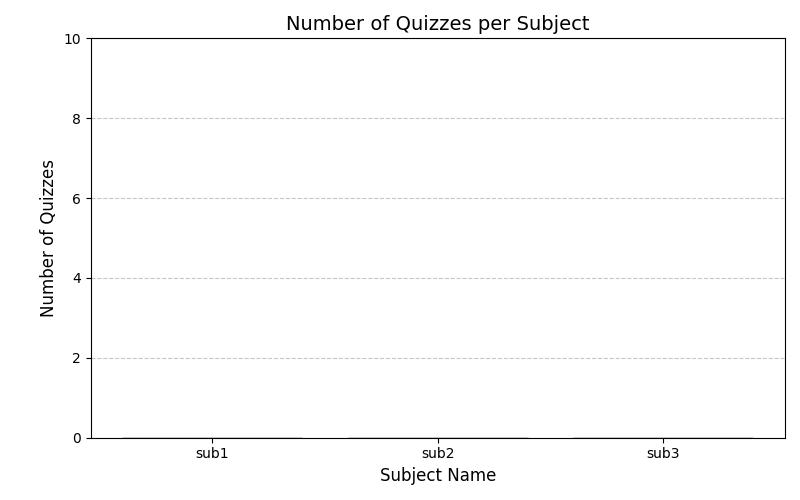
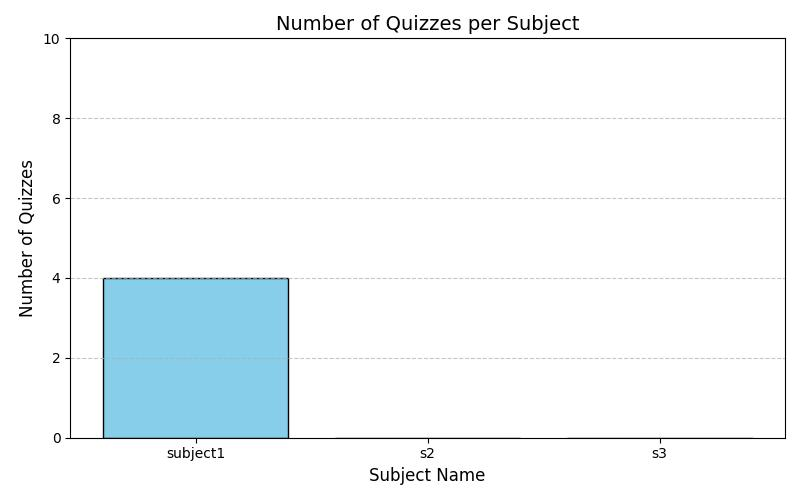
updated

diff --git a/templates/quiz_score.html b/templates/quiz_score.html
@@ -12,8 +12,8 @@
                             <th class="text-center">Name</th>
                             <th class="text-center">Subject</th>
                             <th class="text-center">No. of Questions</th>
-                            <th class="text-center">Date</th>
-                            <th class="text-center">Duration</th>
+                            <th class="text-center">Time Duration</th>
+                            <th class="text-center">Attempt Date</th>
                             <th class="text-center">Time Taken</th>
                             <th class="text-center">Score</th>
                         </tr>
@@ -24,8 +24,8 @@
                             <td class="text-center">{{ row.quiz_name }}</td>
                             <td class="text-center">{{ row.subject_name }}</td>
                             <td class="text-center">{{ row.no_of_questions }}</td>
-                            <td class="text-center">{{ row.quiz_date }}</td>
                             <td class="text-center">{{ row.time_duration }}</td>
+                            <td class="text-center">{{ row.attempt_date }}</td>
                             <td class="text-center">{{ row.attempt_time }}</td>
                             <td class="text-center">{{ row.user_score }}</td>
                         </tr>

diff --git a/templates/subject.html b/templates/subject.html
@@ -81,7 +81,7 @@
                                 <div class="d-flex align-items-center">
                                     <button type="button"
                                         class="btn btn-outline-primary btn-sm me-2 edit_button"
-                                        data-toggle="modal" data-target="#editChapter{{ chapter.id }}">
+                                        data-toggle="modal" data-target="#editChapter{{ subject.id }}{{ chapter.id }}">
                                         Edit
                                     </button>
                                     <div class="modal fade" id="editChapter{{ subject.id }}{{ chapter.id }}"

diff --git a/templates/user_chart.html b/templates/user_chart.html
@@ -20,10 +20,6 @@
             <li class="nav-item">
                 <a class="nav-link" href="/{{user.username}}/score">Scores</a>
             </li>
-            <li class="nav-item">
-                <input class="form-control" type="search" placeholder="Search" aria-label="Search" name="q"
-                    hx-get="{{ url_for('user_quiz', username=user.username) }}" hx-trigger="keyup changed delay:500ms" hx-target="#search-results">
-            </li>
             <li>
                 <form action="/logout" class="d-inline">
                     <button type="submit" class="btn btn-outline-danger">Logout</button>

diff --git a/templates/admin_chart.html b/templates/admin_chart.html
@@ -23,10 +23,6 @@
             <li class="nav-item">
                 <a class="nav-link" href="/admin/quiz">Quiz</a>
             </li>
-            <li class="nav-item">
-                <input class="form-control" type="search" placeholder="Search" aria-label="Search" name="q"
-                    hx-get="{{url_for('admin_search', type='subject')}}" hx-trigger="keyup changed delay:500ms" hx-target="#search-results">
-            </li>
             <li>
                 <form action="/logout" class="d-inline">
                     <button type="submit" class="btn btn-outline-danger">Logout</button>

diff --git a/app.py b/app.py
@@ -9,6 +9,7 @@ app.config["SQLALCHEMY_DATABASE_URI"]="sqlite:///database.sqlite3"
 app.secret_key = '0987654321'
 db = SQLAlchemy(app)
 
+#######################################################################################3
 
 # Model work
 class Admin(db.Model):
@@ -63,7 +64,6 @@ class Quiz(db.Model):
     quiz_date = db.Column(db.Date, nullable=False)
     time_duration = db.Column(db.Time, nullable=False)
     questions = db.relationship('QuizwiseQuestion', backref='quiz', lazy=True)
-    scores = db.relationship('Score', backref='quiz', lazy=True)
 
 class QuizwiseQuestion(db.Model):
     __tablename__ = 'quizwisequestion'
@@ -73,8 +73,12 @@ class QuizwiseQuestion(db.Model):
 class Score(db.Model):
     __tablename__ = 'score'
     id = db.Column(db.Integer, primary_key=True, autoincrement=True)
-    quiz_id = db.Column(db.Integer, db.ForeignKey('quiz.id'), nullable=False)
     user_id = db.Column(db.Integer, db.ForeignKey('user.id'), nullable=False)
+    quiz_name = db.Column(db.String(255), nullable=False)
+    quiz_date = db.Column(db.Date, nullable=False)
+    quiz_time_duration = db.Column(db.Time, nullable=False)
+    subject_name = db.Column(db.String(255), nullable=False)
+    no_of_questions = db.Column(db.Integer, nullable=False)
     start_time = db.Column(db.DateTime)
     end_time = db.Column(db.DateTime)
     user_score = db.Column(db.Integer, nullable=False)
@@ -86,6 +90,7 @@ with app.app_context():
         db.session.add(Admin(username="admin", password="admin"))
         db.session.commit()
 
+###################################################################################
 
 # Flask work
 @app.route('/', methods=["GET", "POST"])
@@ -303,7 +308,7 @@ def admin_summary():
         data.append({
             "id": subject.id,
             "name": subject.name,
-            "no_of_quizzes": db.session.query(Score).join(Quiz, Quiz.id==Score.quiz_id).filter(Quiz.subject_id==subject.id).count()
+            "no_of_quizzes": db.session.query(Score).join(Subject, Subject.name==Score.subject_name).filter(Score.subject_name==subject.name).count()
         })
     
     plt.figure(figsize=(8, 5))
@@ -424,9 +429,20 @@ def calculate_score(user_id, quiz_id):
         if submitted_values == correct_answers[question_id]:
             score += 1
 
+    quiz = db.session.query(
+        Quiz.id,
+        Quiz.name.label("quiz_name"),
+        Subject.name.label("subject_name"),
+        Quiz.quiz_date,
+        Quiz.time_duration
+    ).join(Subject).filter(Quiz.subject_id==Subject.id).filter(Quiz.id==quiz_id).first()
     db.session.add(Score(
-        quiz_id=quiz_id,
         user_id=user_id,
+        quiz_name=quiz.quiz_name,
+        quiz_date=quiz.quiz_date,
+        quiz_time_duration=quiz.time_duration,
+        subject_name=quiz.subject_name,
+        no_of_questions=QuizwiseQuestion.query.filter_by(quiz_id=quiz.id).count(),
         start_time=datetime.strptime(request.form.get("start_time"), r'%Y-%m-%d %H:%M:%S'),
         end_time=datetime.now().replace(microsecond=0),
         user_score=score
@@ -443,26 +459,16 @@ def user_score(username):
         return redirect(url_for("index"))
     
     data = []
-    tmp_data = db.session.query(
-        Quiz.id.label("quiz_id"),
-        Quiz.name.label("quiz_name"),
-        Subject.name.label("subject_name"),
-        Quiz.quiz_date,
-        Quiz.time_duration,
-        Score.start_time,
-        Score.end_time,
-        Score.user_score
-    ).join(Subject).filter(Quiz.subject_id == Subject.id
-    ).join(Score).filter(Score.quiz_id == Quiz.id).filter(Score.user_id==user.id).all()
+    tmp_data = Score.query.filter_by(user_id=user.id).all()
 
     for row in tmp_data:
         data.append({
-            "quiz_id":row.quiz_id,
             "quiz_name":row.quiz_name,
             "subject_name":row.subject_name,
-            "no_of_questions": QuizwiseQuestion.query.filter_by(quiz_id=row.quiz_id).count(),
+            "no_of_questions": row.no_of_questions,
             "quiz_date":row.quiz_date,
-            "time_duration":row.time_duration,
+            "time_duration":row.quiz_time_duration,
+            "attempt_date":row.start_time.date(),
             "attempt_time":row.end_time-row.start_time,
             "user_score":row.user_score
         })
@@ -471,33 +477,28 @@ def user_score(username):
 @app.route("/<username>/score/search")
 def user_score_search(username):
     query = request.args.get("q").strip()
+    user = User.query.filter_by(username=username).first()
+    if not user or (not 'username' in session or username != session["username"]):
+        flash("Invalid credentials!", "error")
+        return redirect(url_for("index"))
 
     data = []
-    tmp_data = db.session.query(
-        Quiz.id.label("quiz_id"),
-        Quiz.name.label("quiz_name"),
-        Subject.name.label("subject_name"),
-        Quiz.quiz_date,
-        Quiz.time_duration,
-        Score.start_time,
-        Score.end_time,
-        Score.user_score
-    ).join(Subject, Quiz.subject_id == Subject.id
-    ).join(Score, Score.quiz_id == Quiz.id).filter(Score.user_id==User.id).filter(
+    tmp_data = Score.query.filter_by(user_id=user.id).filter(
         db.or_(
-                Quiz.name.ilike(f"%{query}%"),
-                Subject.name.ilike(f"%{query}%"),
-                Quiz.quiz_date.ilike(f"%{query}%")
+                Score.quiz_name.ilike(f"%{query}%"),
+                Score.subject_name.ilike(f"%{query}%"),
+                Score.quiz_date.ilike(f"%{query}%"),
+                Score.start_time.ilike(f"%{query}%")
             )
     ).all()
     for row in tmp_data:
         data.append({
-            "quiz_id":row.quiz_id,
             "quiz_name":row.quiz_name,
             "subject_name":row.subject_name,
-            "no_of_questions": QuizwiseQuestion.query.filter_by(quiz_id=row.quiz_id).count(),
+            "no_of_questions": row.no_of_questions,
             "quiz_date":row.quiz_date,
-            "time_duration":row.time_duration,
+            "time_duration":row.quiz_time_duration,
+            "attempt_date":row.start_time.date(),
             "attempt_time":row.end_time-row.start_time,
             "user_score":row.user_score
         })
@@ -518,8 +519,14 @@ def subject(action, id=None):
     elif action == "delete":
         subject = Subject.query.filter_by(id=id).first()
         chapters = Chapter.query.filter_by(subject_id=id).all()
+        quizzes = Quiz.query.filter_by(subject_id=id).all()
         if subject:
+            for quiz in quizzes:
+                db.session.delete(quiz)
             for chapter in chapters:
+                questions = Question.query.filter_by(chapter_id=chapter.id).all()
+                for question in questions:
+                    db.session.delete(question)
                 db.session.delete(chapter)
             db.session.delete(subject)
             db.session.commit()
@@ -544,7 +551,7 @@ def chapter(action, id=None):
     elif action == "delete":
         chapter = Chapter.query.filter_by(id=id).first()
         questions = Question.query.filter_by(chapter_id=id).all()
-        quiz = Quiz.query.filter_by(chapter_id=id).all()
+        quiz = Quiz.query.filter_by(subject_id=id).all()
         if chapter:
             for ids in questions:
                 db.session.delete(ids)
@@ -654,7 +661,7 @@ def chart(username):
         data.append({
             "id": subject.id,
             "name": subject.name,
-            "no_of_quizzes": db.session.query(Score).join(Quiz, Quiz.id==Score.quiz_id).filter(Quiz.subject_id==subject.id).filter(Score.user_id==user.id).count()
+            "no_of_quizzes": db.session.query(Score).join(Subject, Score.subject_name==Subject.name).filter(Score.subject_name==subject.name).filter(Score.user_id==user.id).count()
         })
     
     plt.figure(figsize=(8, 5))
